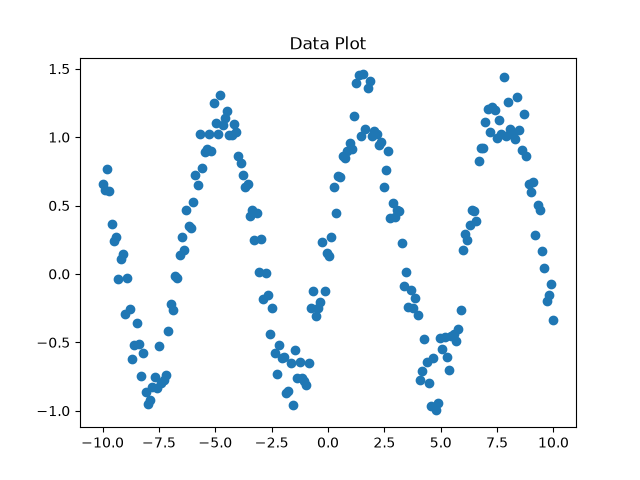
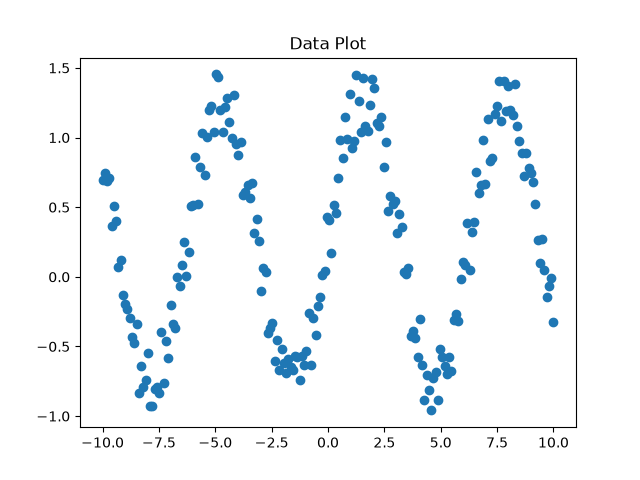
working genotype and phenotype

diff --git a/src/tgp/individual.py b/src/tgp/individual.py
@@ -1,23 +1,92 @@
+from collections import deque
+from copy import deepcopy
+
+from . import node as td
 from . import programs
 
 class individual:
     def __init__(
         self, 
-        rng=None, 
-        max_depth=0, 
-        mutation=0, 
+        rng, 
+        max_size=0,
+        mutation=0,
         crossover=0
     ):
         self.rng = rng
-        self.max_depth = max_depth
+        self.max_size = max_size
         self.mutation = mutation
         self.crossover = crossover
+        self.size = 0
 
         # initialize the tree
-        self.initialize_individual()
+        self.__initialize_individual()
 
-    def initialize_individual(self):
-        self.grow_tree()
+    def __initialize_individual(self):
+        self.__grow_tree()
 
-    def grow_tree(self):
-        pass
+    def __grow_tree(self):
+        # list of all nodes that need to be visited
+        unvisited_nodes = deque()
+        inputs = 0
+
+        # generate root first (BFS)
+        # (name, num arguments, function)
+        prog = programs.random_program(rng=self.rng)
+        root = td.node(res=0, op=prog[2])
+        self.size += 1
+
+        for args in range(prog[1]):
+            arg = td.node()
+            root.set_arg(n_node=arg)
+            unvisited_nodes.append(arg)
+
+        # visit all nodes in the tree and populate them
+        while self.size < self.max_size:
+            prog = programs.random_program(rng=self.rng)
+            unode = unvisited_nodes.popleft()
+            unode.set_op(op=prog[2])
+            self.size += 1
+
+            for args in range(prog[1]):
+                arg = td.node()
+                unode.set_arg(n_node=arg)
+                unvisited_nodes.append(arg)
+
+        while len(unvisited_nodes) > 0:
+            prog = programs.random_program(rng=self.rng, leaf=True)
+            unode = unvisited_nodes.popleft()
+            unode.set_res(prog[2](rng=self.rng))
+            self.size += 1
+
+        self.root = root
+
+    def __phenotype(self, input):
+        # stack based eval
+        stack = deque()
+        stack.append(self.root)
+
+        while len(stack) > 0:
+            peek = stack[-1]
+            all_leaves = True
+            # store args that need to be computed
+            for arg in peek.args:
+                if arg.res is None:
+                    stack.append(arg)
+                    all_leaves = False
+            # if all leaves allow computation of node
+            if all_leaves:
+                node = stack.pop()
+                args = node.args
+                res = [input if arg.res == 'input' else arg.res for arg in args]
+                node.res = node.op(*res)
+                # reset results after use
+                for arg in args:
+                    if arg.op is not None:
+                        arg.res = None
+
+        return self.root.res
+
+    def compute_tree(self, input):
+        """ get output based on input, converts genotype to phenotype
+        """
+        return self.__phenotype(input)

diff --git a/src/tgp/programs.py b/src/tgp/programs.py
@@ -1,7 +1,5 @@
 import numpy as np
 
-__eph_constant = None
-
 def __add(x, y):
     return x + y
 
@@ -16,18 +14,25 @@ def __div(x, y):
 def __mult(x, y):
     return x * y
 
-def __const(rng=None):
-    low = 0
-    high = 10
-    return np.random.randint(low=low, high=high) if rng is None else rng.integer(low=low, high=high)
+def __input(rng):
+    return 'input'
 
-def __erc(rng=None, mutate=False):
-    if __eph_constant != None or not mutate:
-        return __eph_constant
-    return np.random.rand() if rng is None else rng.random()
+def __erc(rng):
+    values = [np.e, np.pi, rng.random(), rng.integers(low=-10, high=10)]
+    return rng.choice(values)
 
-def random_program(rng=None, leaf=False):
-    programs = [__add, __sub, __div, __mult]
+def random_program(rng, leaf=False):
+    """
+        returns a random atomic program (uniform)
+
+        attr:
+            rng: to seed randomized programs (utilizes np default_rng)
+            leaf: if want random leaf node
+
+        returns:
+            ('program name', # arguements of returned program, function call to program)
+    """
+    programs = [('add', 2, __add), ('sub', 2, __sub), ('div', 2, __div), ('mult', 2, __mult)]
     if leaf:
-        programs = [__erc, __const]
-    return np.random.choice(programs) if rng is None else rng.choice(programs)
+        programs = [('erc', 0, __erc), ('input', 0, __input)]
+    return rng.choice(programs)

diff --git a/src/tgp/genetic_program.py b/src/tgp/genetic_program.py
@@ -4,9 +4,9 @@ from utils import out
 class genetic_program:
     def __init__(
         self, 
-        rng=None, 
+        rng, 
         max_pop=0, 
-        max_depth=0, 
+        max_size=0, 
         max_generation=0, 
         mutation=0, 
         crossover=0
@@ -14,10 +14,10 @@ class genetic_program:
         self.rng = rng
         self.max_generation = max_generation
         self.max_pop = max_pop
-        self.max_depth = max_depth
+        self.max_size = max_size
         self.population = [individual.individual(
             rng=self.rng, 
-            max_depth=self.max_depth, 
+            max_size=self.max_size, 
             mutation=mutation, 
             crossover=crossover) for _ in range(self.max_pop)]
 

diff --git a/src/symbolic_regression/setup.py b/src/symbolic_regression/setup.py
@@ -9,7 +9,7 @@ def regress_func(x):
 
 def setup():
     print('Setting up...')
-    rng = np.random.default_rng(seed=cf.SEED)
+    rng = np.random.default_rng(seed=cf.SEED) if cf.ENABLE_SEED else np.random.default_rng()
     x, data = gen.generate_data(
         rng=rng, 
         variance=cf.VARIANCE, 
@@ -24,12 +24,12 @@ def setup():
     gp.scatter_plot(y=data, x=x)
     gp.save_plot()
 
-def run_model(rng=None):
+def run_model(rng):
     print('Training...')
     model = tgp.genetic_program(
         rng=rng, 
         max_pop=cf.MAX_POP, 
-        max_depth=cf.MAX_DEPTH, 
+        max_size=cf.MAX_SIZE, 
         max_generation=cf.GENERATION, 
         mutation=cf.MUTATION, 
         crossover=cf.CROSSOVER)

diff --git a/src/utils/generate_data.py b/src/utils/generate_data.py
@@ -1,10 +1,10 @@
 import numpy as np
 
-def add_noise(rng=None, variance=0, size=0):
-    rand_mat = np.random.rand(size,) if rng is None else rng.random((size,))
+def add_noise(rng, variance=0, size=0):
+    rand_mat = rng.random((size,))
     return rand_mat * variance
 
-def generate_data(rng=None, variance=0, start=0, stop=0, num_samples=0, fx=()):
+def generate_data(rng, variance=0, start=0, stop=0, num_samples=0, fx=()):
     print('Generate data...')
     x = np.linspace(start=start, stop=stop, num=num_samples, endpoint=True)
     data = fx(x) + add_noise(rng, variance, x.shape[0])

diff --git a/src/tgp/node.py b/src/tgp/node.py
@@ -1,0 +1,14 @@
+class node:
+    def __init__(self, res=None, op=None):
+        self.res = res
+        self.args = []
+        self.op = op
+
+    def set_res(self, res):
+        self.res = res
+
+    def set_arg(self, n_node):
+        self.args.append(n_node)
+
+    def set_op(self, op):
+        self.op = op

diff --git a/src/configs.py b/src/configs.py
@@ -1,12 +1,14 @@
 GENERATION = 50
 MAX_POP = 500
 MAX_DEPTH = 5
+MAX_SIZE = 5
 
 MUTATION = .1
 CROSSOVER = .9
 
 
 # Generate data
+ENABLE_SEED = 0
 SEED = 12345
 
 VARIANCE = 0.5

diff --git a/src/tgp/fitness.py b/src/tgp/fitness.py
@@ -1,0 +1,2 @@
+def fitness_evaluator():
+    pass
